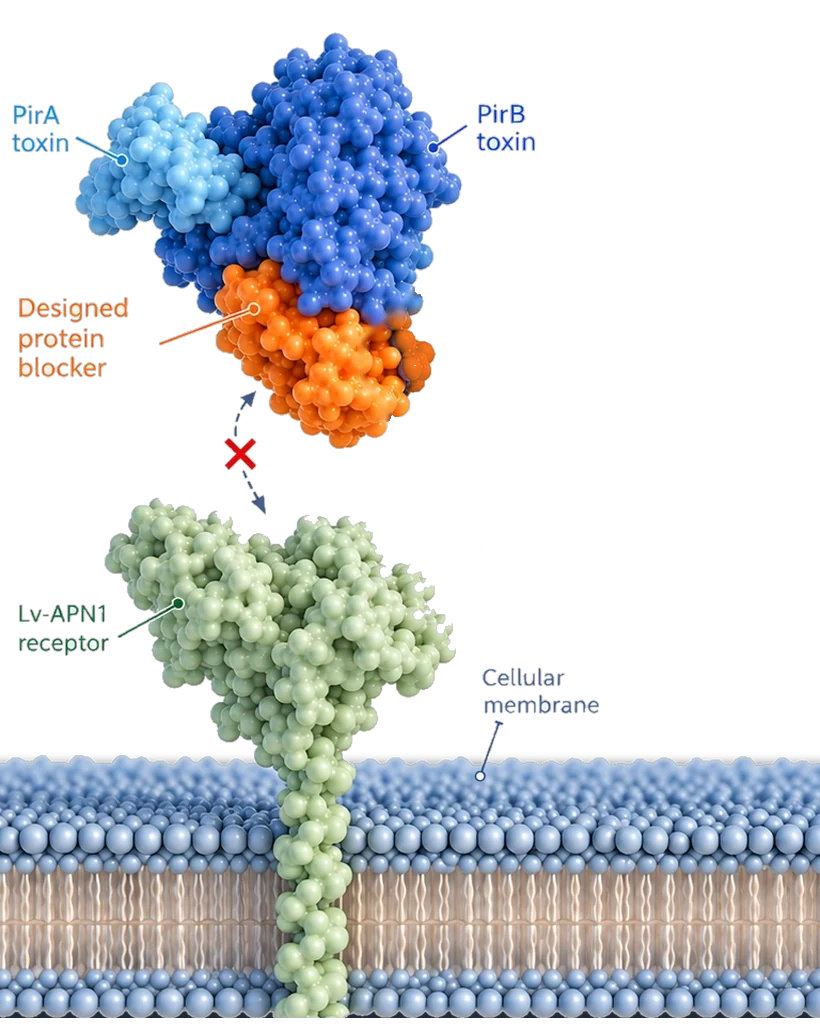
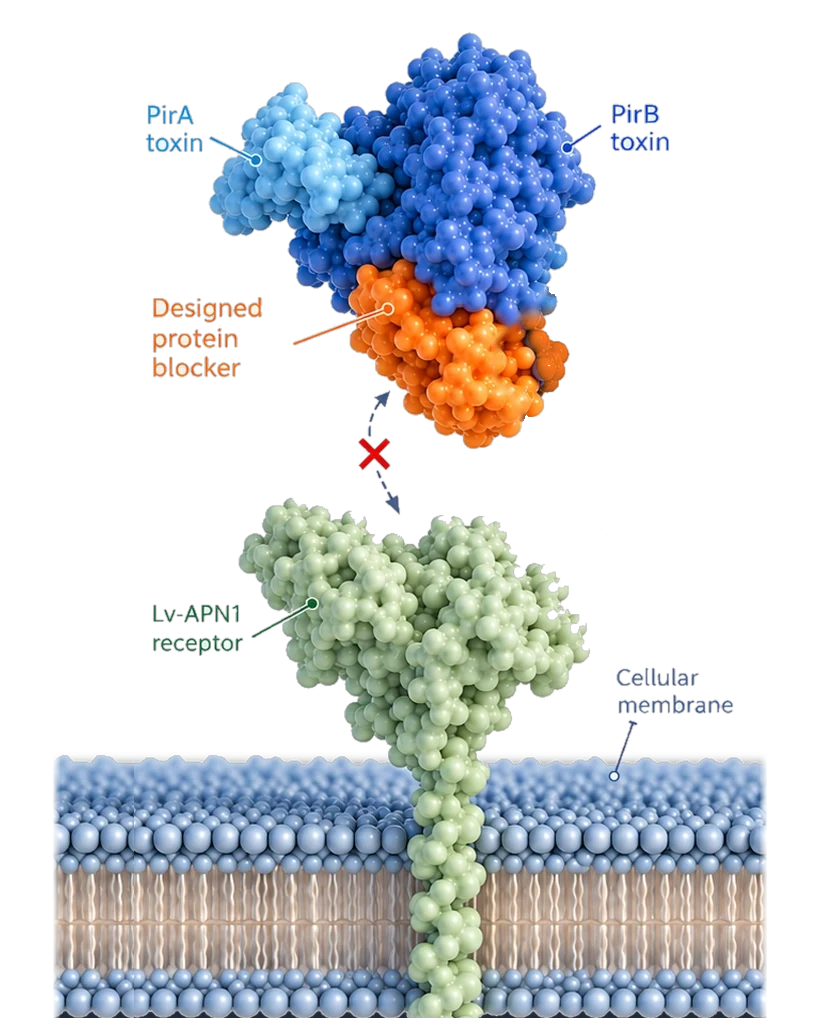
Add files via upload

diff --git a/assets/css/site.css b/assets/css/site.css
@@ -554,11 +554,12 @@ section { position: relative; padding: clamp(72px, 10vw, 128px) 0; }
 .calls-note { margin: 0; font-size: .9rem; line-height: 1.5; }
 .calls-ticker { position: relative; z-index: 1; overflow: hidden;
   -webkit-mask-image: linear-gradient(90deg, transparent 0, #000 12%, #000 88%, transparent 100%); mask-image: linear-gradient(90deg, transparent 0, #000 12%, #000 88%, transparent 100%); }
-.calls-track { display: flex; width: max-content; animation: callsMarquee 38s linear infinite; }
+.calls-track { display: flex; align-items: stretch; width: max-content; animation: callsMarquee 38s linear infinite; }
 .calls-ticker:hover .calls-track, .calls-ticker:focus-within .calls-track { animation-play-state: paused; }
 @keyframes callsMarquee { from { transform: translateX(-50%); } to { transform: translateX(0); } }
-.calls-list { list-style: none; margin: 0; padding: 0 0 0 14px; display: flex; gap: 14px; }
-.calls-list li > * { display: grid; gap: 5px; width: max-content; max-width: 380px; padding: 14px 18px; border-radius: 14px; border: 1px solid var(--line-dark); background: rgba(16, 30, 54, .75); text-decoration: none; transition: translate .28s ease, border-color .28s ease, box-shadow .28s ease; }
+.calls-list { list-style: none; margin: 0; padding: 0 0 0 14px; display: flex; align-items: stretch; gap: 14px; }
+.calls-list li { display: flex; }
+.calls-list li > * { display: flex; flex-direction: column; justify-content: flex-start; gap: 6px; width: 300px; height: 100%; min-height: 96px; padding: 16px 18px; border-radius: 14px; border: 1px solid var(--line-dark); background: rgba(16, 30, 54, .75); text-decoration: none; transition: translate .28s ease, border-color .28s ease, box-shadow .28s ease; }
 .calls-list li > *:hover { translate: 0 -3px; border-color: #1CD5E7; box-shadow: 0 16px 34px -20px rgba(28, 213, 231, .5); }
 .calls-prog { font: 600 .74rem/1.2 var(--head); letter-spacing: .1em; text-transform: uppercase; color: #1CD5E7; }
 .calls-name { font: 500 .95rem/1.35 var(--body); color: #fff; }
